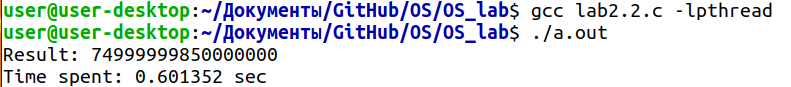
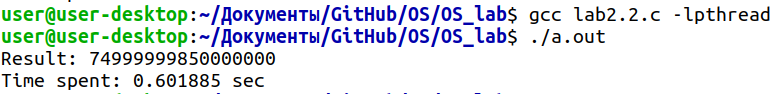
Done lab2 (possibly with errors)
Questions:
1. Where I should start to count the time in second and third programs?
2. Is there no attributes in third program?

diff --git a/lab2.3.cpp b/lab2.3.cpp
@@ -1,0 +1,51 @@
+#include <iostream>
+#include <thread>
+#include <mutex>
+#include <ctime>
+
+double time_spent = 0.0;
+const unsigned int first = 100000000; //100 000 000
+const unsigned int last = 399999999; //399 999 999
+long long unsigned int result = 0;
+
+std::mutex tmutex;
+
+void sum(int me)
+{
+	int part = me;
+	int offset = 75000000;
+	//std::cout << "part: " << part << ", first: " << first+part*75000000 << ", last: " << last-(3-part)*offset << "\n";
+	
+	long long unsigned int res = 0;
+	for (int i = first+part*75000000; i <= last-(3-part)*offset; i++)
+    {
+        res = res + i;
+    }
+    
+    tmutex.lock();
+    //std::cout << "result after sum " << part << ": " << res << "\n";    
+    result = result + res;
+    //std::cout << "result after sum " << part << ": " << result << "\n";  
+    tmutex.unlock();
+}
+
+int main()
+{
+	std:: thread threads[4];
+	
+	clock_t begin = clock();
+	for (int i = 0; i < 4; i++)
+    {
+    	threads[i] = std::thread(sum, i);
+    }   
+    for (int i = 0; i < 4; i++)
+    {
+    	threads[i].join();
+    }
+    clock_t end = clock();
+    time_spent += (double)(end - begin)/CLOCKS_PER_SEC;
+    
+    std::cout << "Result: " << result << "\nTime spent: " << time_spent << " sec\n";
+    
+    return 0;
+}

diff --git a/lab2.2.c b/lab2.2.c
@@ -44,6 +44,8 @@ int main()
 		perror("Error in setting attributes");
 		abort();
 	}
+	
+	clock_t begin = clock();
 	for (int i = 0; i < 4; i++)
 	{
 		if (pthread_create(&threads[i], &attrs, sum, &parts[i]) != 0)
@@ -53,8 +55,7 @@ int main()
 		}
 	}
 	pthread_attr_destroy(&attrs);
-
-    clock_t begin = clock();
+    
     for (int i = 0; i < 4; i++)
     {
     	if (pthread_join(threads[i], NULL) != 0)
